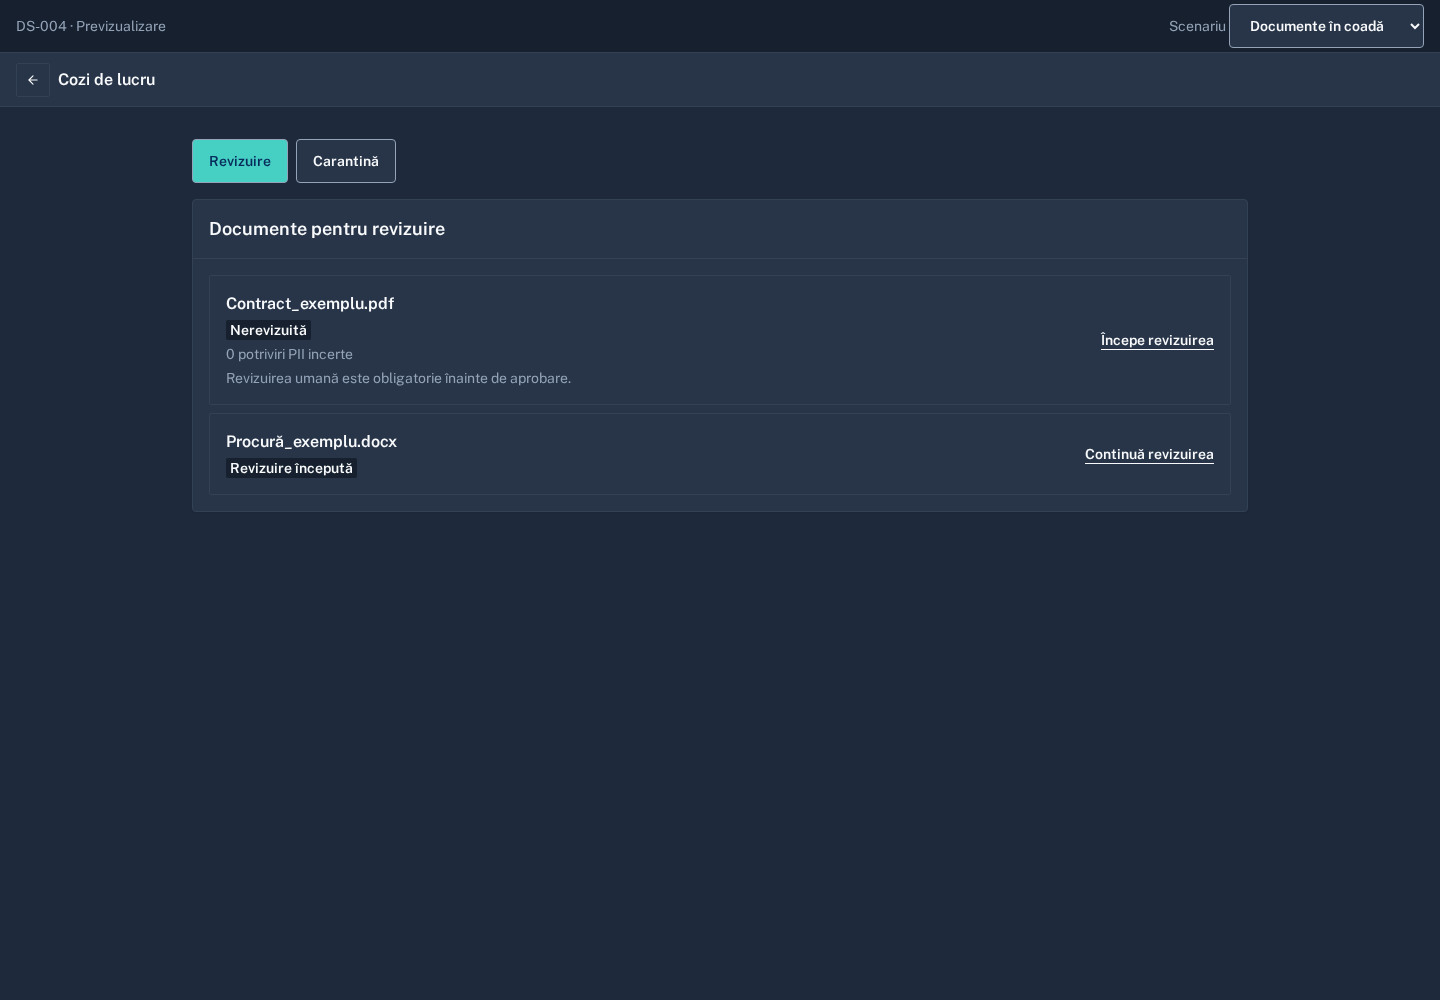
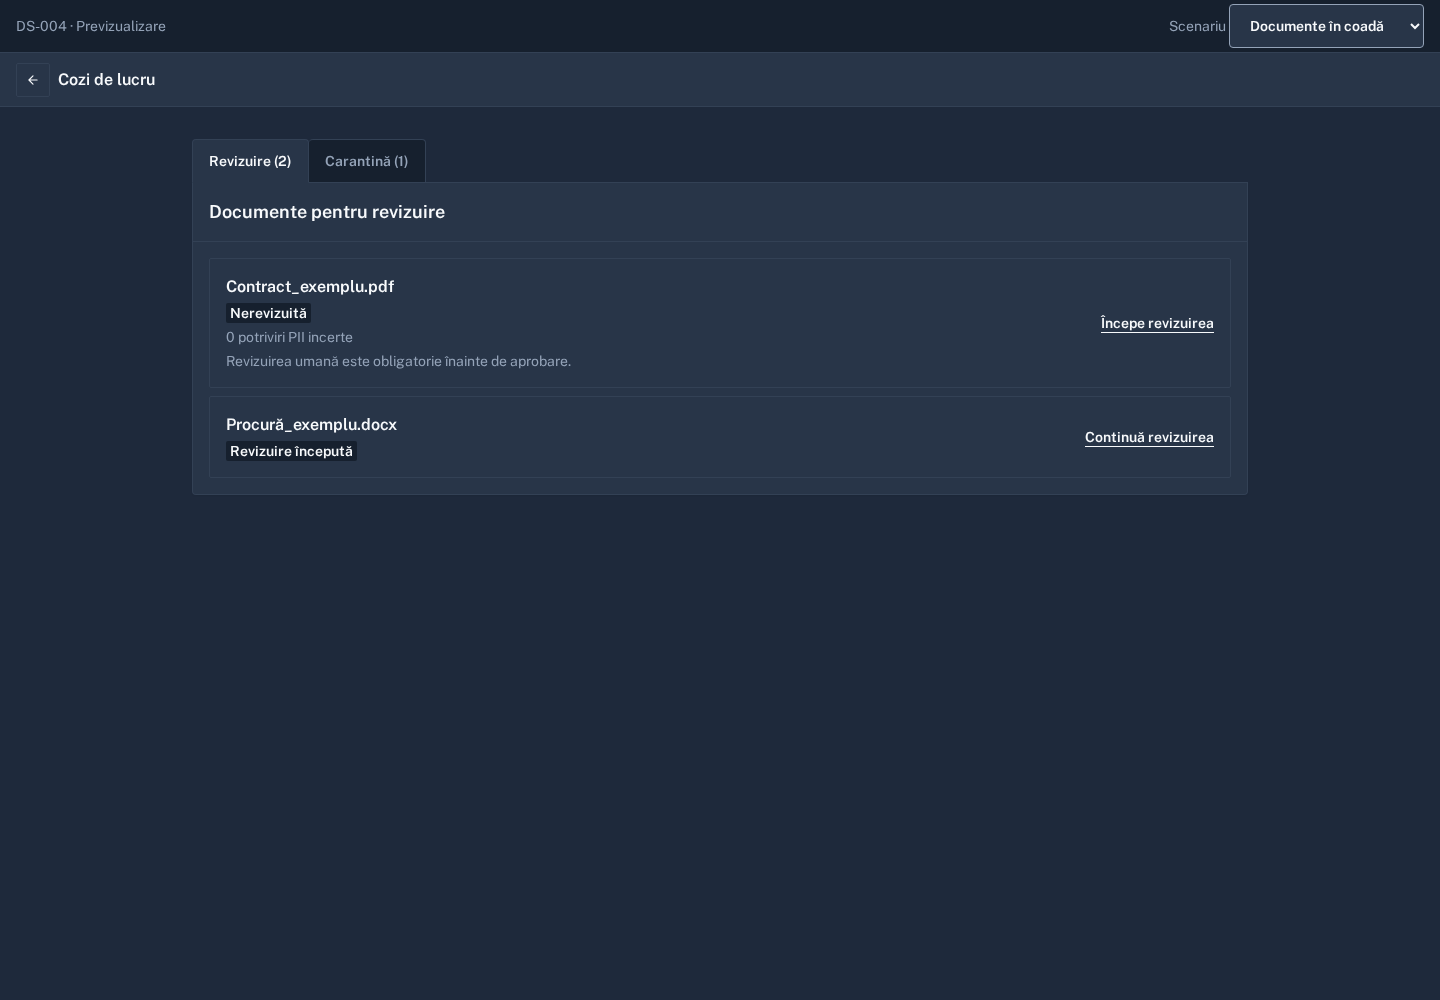
docs(design): connect DS-004 queue tabs to their panels

diff --git a/docs/design/mocks/DS-004.html b/docs/design/mocks/DS-004.html
@@ -121,7 +121,7 @@
       white-space: nowrap;
     }
 
-    .mock-ribbon, .tabs, .actions { display: flex; align-items: center; flex-wrap: wrap; gap: var(--space-sm); }
+    .mock-ribbon, .actions { display: flex; align-items: center; flex-wrap: wrap; gap: var(--space-sm); }
     .mock-ribbon {
       justify-content: space-between;
       padding: var(--space-xs) var(--space-md);
@@ -153,13 +153,40 @@
     .button:hover, select:hover { background: var(--color-bg-subtle); }
     .button:active { text-decoration: underline; }
     .button:disabled { color: var(--color-text-secondary); border-style: dashed; cursor: default; }
-    .button[aria-selected="true"], .primary, .primary:hover {
+    .primary, .primary:hover {
       background: var(--color-accent-teal);
       color: var(--color-version-navy);
     }
-    .button[aria-selected="true"]:hover, .primary:hover {
+    .primary:hover {
       border-color: var(--color-version-navy);
       text-decoration: underline;
+    }
+    .tabs { display: flex; }
+    .tabs::after {
+      content: '';
+      flex: auto;
+      border-bottom: thin solid var(--color-border);
+    }
+    .tab {
+      min-block-size: calc(var(--space-xl) + var(--space-sm) + var(--space-xs));
+      padding: var(--space-sm) var(--space-md);
+      border: thin solid var(--color-border);
+      border-start-start-radius: var(--radius-md);
+      border-start-end-radius: var(--radius-md);
+      background: var(--color-bg-subtle);
+      color: var(--color-text-secondary);
+      font: var(--text-small);
+      font-weight: 600;
+      cursor: pointer;
+      transition: color var(--duration-fast);
+    }
+    .tab + .tab { border-inline-start: 0; }
+    .tab:hover { color: var(--color-text-primary); text-decoration: underline; }
+    .tab:focus-visible { outline-offset: calc(-1 * var(--space-xs)); }
+    .tab[aria-selected="true"] {
+      background: var(--color-bg-surface);
+      border-block-end-color: var(--color-bg-surface);
+      color: var(--color-text-primary);
     }
     .panel, .destination, dialog {
       background: var(--color-bg-surface);
@@ -167,7 +194,11 @@
       border-radius: var(--radius-md);
       box-shadow: var(--shadow-card);
     }
-    .panel { margin-block-start: var(--space-md); }
+    .panel {
+      border-block-start: 0;
+      border-start-start-radius: 0;
+      border-start-end-radius: 0;
+    }
     .panel > h2 { padding: var(--space-md); border-bottom: thin solid var(--color-border); }
     h2 { font: var(--text-h3); }
     .rows { display: grid; gap: var(--space-sm); padding: var(--space-md); }
@@ -261,8 +292,8 @@
   <main class="wrap">
     <div id="queues">
       <div class="tabs" role="tablist" aria-label="Cozi de lucru">
-        <button class="button" id="review-tab" type="button" role="tab" aria-controls="review" aria-selected="true">Revizuire</button>
-        <button class="button" id="quarantine-tab" type="button" role="tab" aria-controls="quarantine" aria-selected="false" tabindex="-1">Carantină</button>
+        <button class="tab" id="review-tab" type="button" role="tab" aria-controls="review" aria-selected="true">Revizuire<span data-count></span></button>
+        <button class="tab" id="quarantine-tab" type="button" role="tab" aria-controls="quarantine" aria-selected="false" tabindex="-1">Carantină<span data-count></span></button>
       </div>
 
       <section class="panel" id="review" role="tabpanel" aria-labelledby="review-tab" tabindex="0">
@@ -389,7 +420,7 @@
       });
     }
 
-    for (const panel of panels) {
+    for (const [index, panel] of panels.entries()) {
       const rows = panel.querySelector('.rows');
       if (state === 'gol') {
         rows.hidden = true;
@@ -400,6 +431,7 @@
         const template = byId(state === 'incarcare' ? 'loading' : 'load-error');
         rows.after(template.content.cloneNode(true));
         panel.querySelector('[data-reload]')?.addEventListener('click', () => setScenario(''));
+        continue;
       }
       if (state === 'lung') {
         const row = document.createElement('li');
@@ -410,6 +442,8 @@
         row.append(name);
         rows.append(row);
       }
+      const count = state === 'gol' ? 0 : rows.children.length;
+      tabs[index].querySelector('[data-count]').textContent = ` (${count})`;
     }
 
     const drafts = {

diff --git a/docs/design/tests/DS-004.spec.js b/docs/design/tests/DS-004.spec.js
@@ -42,6 +42,33 @@ test('shows the approved OCR attempt count and confirms the permanent failure st
   await expect(quarantine.getByRole('status')).toHaveText('Documentul a fost trimis din nou la procesare.');
 });
 
+test('labels queue tabs with their document counts and moves focus and selection together', async ({ page }) => {
+  await page.goto(mock);
+  const tabs = page.getByRole('tablist', { name: 'Cozi de lucru' });
+  const review = tabs.getByRole('tab', { name: 'Revizuire (2)', exact: true });
+  const quarantine = tabs.getByRole('tab', { name: 'Carantină (1)', exact: true });
+  await expect(review).toHaveAttribute('aria-selected', 'true');
+  await expect(quarantine).toHaveAttribute('tabindex', '-1');
+  await review.focus();
+  await page.keyboard.press('ArrowRight');
+  await expect(quarantine).toBeFocused();
+  await expect(quarantine).toHaveAttribute('aria-selected', 'true');
+  await expect(quarantine).toHaveCSS('outline-style', 'solid');
+  const panel = page.getByRole('tabpanel', { name: 'Carantină (1)', exact: true });
+  await expect(panel).toBeVisible();
+  const panelSurface = await panel.evaluate(element => getComputedStyle(element).backgroundColor);
+  await expect(quarantine).toHaveCSS('background-color', panelSurface);
+  await expect(review).not.toHaveCSS('background-color', panelSurface);
+  await page.keyboard.press('Home');
+  await expect(review).toBeFocused();
+  await expect(review).toHaveAttribute('aria-selected', 'true');
+  await expect(panel).toBeHidden();
+
+  await page.goto(mock + '?stare=gol');
+  await expect(tabs.getByRole('tab', { name: 'Revizuire (0)', exact: true })).toBeVisible();
+  await expect(tabs.getByRole('tab', { name: 'Carantină (0)', exact: true })).toBeVisible();
+});
+
 test('checks the header and captures both queues at the review widths', async ({ page, isMobile, colorScheme }, info) => {
   await page.setViewportSize(isMobile ? { width: 320, height: 800 } : { width: 1440, height: 1000 });
   await page.emulateMedia({ reducedMotion: 'reduce' });
